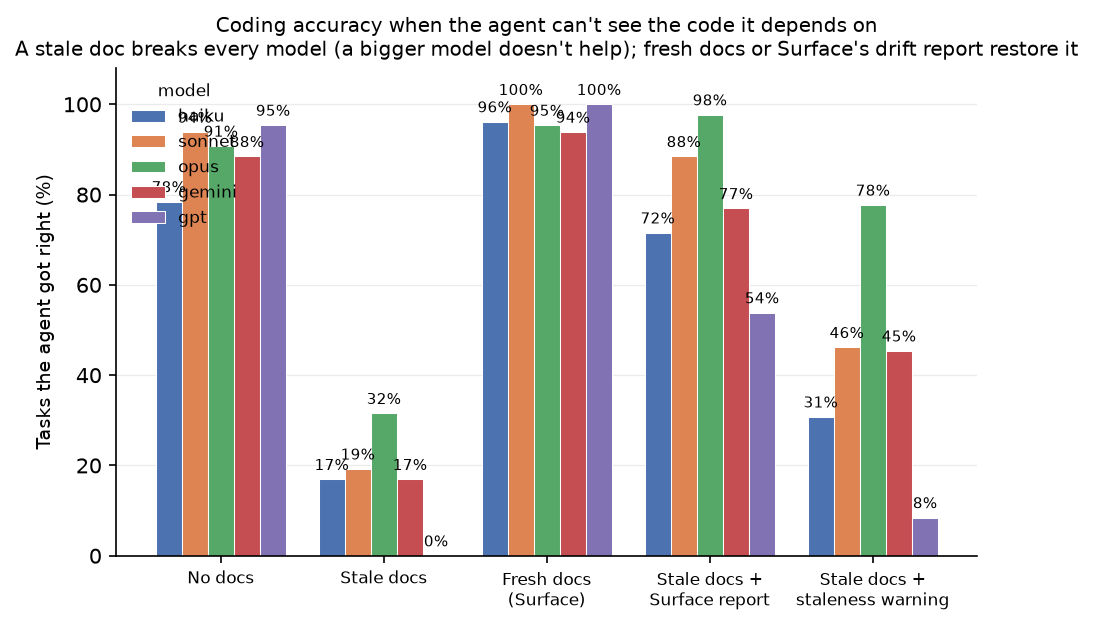
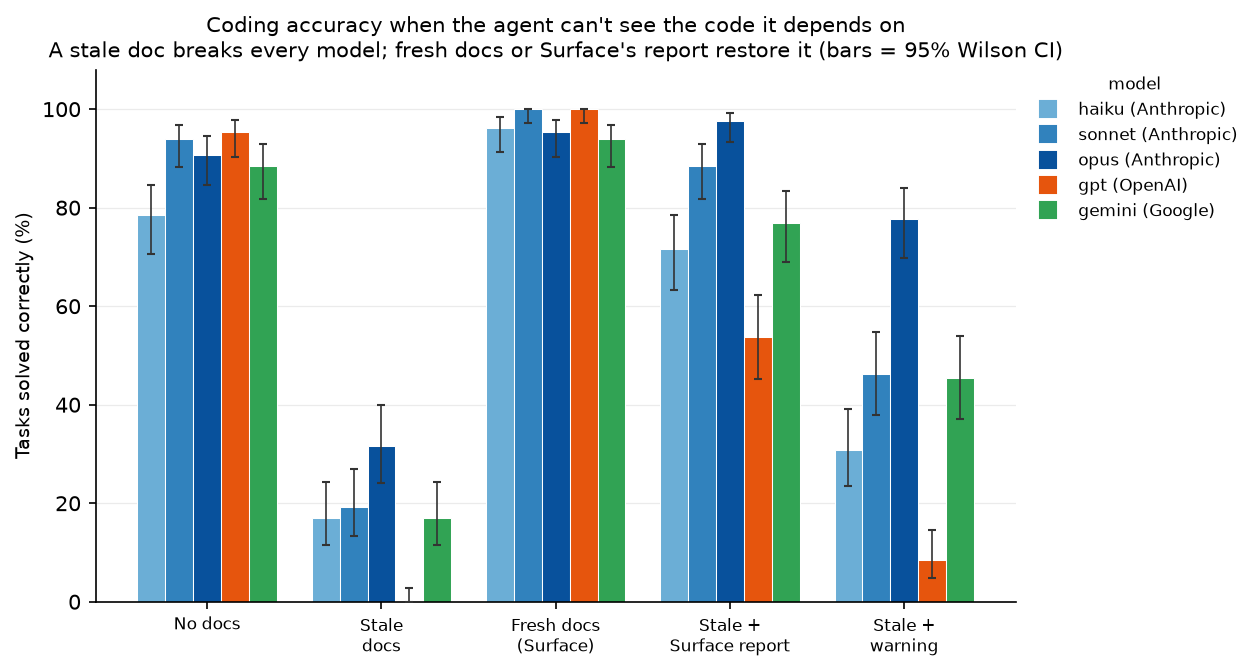
docs: refocus figures on the cost–accuracy story; rewrite §6.7 + add §7.6
Figures (report.py, all rendered from the frozen summary.json):
- replace the effects-forest / mechanisms / mediation charts with a cost–accuracy
  figure (cost_accuracy.png): per-model cost vs success, fresh docs (★) top-left
- keep cascade_success, misled_rate, verification_rate (external legends, CIs)
- drop the stale overview.png

PAPER.md:
- §6.7 rewritten ("Cost and accuracy"): fresh docs strictly dominate no-docs —
  equal/better accuracy at 36–46% lower total cost on 4/5 models — because no-docs
  pays a rediscovery tax (~2x input tokens); embed cost_accuracy.png
- new §7.6 "Why keep docs at all, if no-docs scores well?" (cost dominance,
  reachability caveat, stale-vs-fresh is the real choice, human-comprehension value)
- embed cascade_success / misled_rate / verification_rate; remove forest+mechanisms
- README §4 figure list updated

diff --git a/surface_bench/report.py b/surface_bench/report.py
@@ -202,14 +202,74 @@ def render_markdown(summary: dict) -> str:
     return "\n".join(lines)
 
 
-def maybe_plot(summary: dict, out_dir: Path) -> None:
-    """Render standalone-readable figures.
+# --- Figure styling --------------------------------------------------------------------------
+# Figures are rendered from the summary dict (the same Wilson/bootstrap stats the report tabulates),
+# so they are faithful to the reported numbers. Honesty guards: rate charts use a zero baseline,
+# every rate carries its 95% CI as error bars, no cell is dropped, and the legend sits outside the
+# plot so it never overlaps bars.
+_MODEL_ORDER = ["haiku", "sonnet", "opus", "gpt", "gemini"]
+_PROVIDER = {"haiku": "Anthropic", "sonnet": "Anthropic", "opus": "Anthropic",
+             "gpt": "OpenAI", "gemini": "Google"}
+_COLOR = {"haiku": "#6BAED6", "sonnet": "#3182BD", "opus": "#08519C",
+          "gpt": "#E6550D", "gemini": "#31A354"}
+_COND_ORDER = ["C0", "C1", "C2", "C3", "Cw"]
+_COND_LABEL = {"C0": "No docs", "C1": "Stale\ndocs", "C2": "Fresh docs\n(Surface)",
+               "C3": "Stale +\nSurface report", "Cw": "Stale +\nwarning"}
 
-    The story splits by family, so we plot the families separately rather than averaging them
-    (which would dilute the cascade effect under the comprehension ceiling): cascade scenarios on
-    *success* (where rot breaks the agent) and comprehension scenarios on *output tokens* (where rot
-    just taxes generation). Plain-English condition labels, value annotations, and self-explanatory
-    titles, so the charts make sense without the report. Re-reads raw.jsonl for the per-family split.
+
+def _order_models(summary):
+    present = set(summary["models"])
+    return [m for m in _MODEL_ORDER if m in present] + sorted(present - set(_MODEL_ORDER))
+
+
+def _style(ax):
+    ax.grid(axis="y", alpha=0.25, linewidth=0.6)
+    ax.set_axisbelow(True)
+    for sp in ("top", "right"):
+        ax.spines[sp].set_visible(False)
+
+
+def _legend(ax, models):
+    from matplotlib.lines import Line2D
+
+    handles = [Line2D([0], [0], marker="s", linestyle="", markersize=8, color=_COLOR.get(m, "#888"),
+                      label=f"{m} ({_PROVIDER.get(m, '?')})") for m in models]
+    ax.legend(handles=handles, fontsize=8, frameon=False, title="model", title_fontsize=8,
+              loc="upper left", bbox_to_anchor=(1.01, 1.0), borderaxespad=0)
+
+
+def _grouped_rate(ax, summary, models, field, ci_field, source, ylabel, title):
+    conds = [c for c in _COND_ORDER if c in summary["conditions"]]
+    n = len(models)
+    width = 0.8 / max(n, 1)
+    for i, m in enumerate(models):
+        vals, errs, offs = [], [[], []], []
+        for j, c in enumerate(conds):
+            cell = summary[source][m][c]
+            v = 100 * cell[field]
+            lo, hi = (100 * x for x in cell[ci_field])
+            vals.append(v)
+            errs[0].append(max(0.0, v - lo))
+            errs[1].append(max(0.0, hi - v))
+            offs.append(j + (i - (n - 1) / 2) * width)
+        ax.bar(offs, vals, width=width, color=_COLOR.get(m, "#888"), label=m,
+               edgecolor="white", linewidth=0.5, zorder=2)
+        ax.errorbar(offs, vals, yerr=errs, fmt="none", ecolor="#333", elinewidth=0.8,
+                    capsize=2, zorder=3)
+    ax.set_xticks(range(len(conds)))
+    ax.set_xticklabels([_COND_LABEL.get(c, c) for c in conds], fontsize=8)
+    ax.set_ylim(0, 108)
+    ax.set_ylabel(ylabel, fontsize=9)
+    ax.set_title(title, fontsize=10)
+    _style(ax)
+
+
+def maybe_plot(summary: dict, out_dir: Path) -> None:
+    """Render standalone-readable figures from the summary (no re-reading raw.jsonl).
+
+    Always: cascade success, misled rate, and a pre-registered effects forest. Multi-turn only
+    (guarded on the verification/mediation summary blocks): the verification-rate chart, the
+    three-failure-modes scatter, and the H5 mediation chart.
     """
     try:
         import matplotlib
@@ -218,118 +278,87 @@ def maybe_plot(summary: dict, out_dir: Path) -> None:
         import matplotlib.pyplot as plt
     except ImportError:
         return
-    import statistics
 
-    raw = out_dir / "raw.jsonl"
-    if not raw.exists():
-        return
-    rows = [json.loads(l) for l in raw.read_text().splitlines() if l.strip()]
-    # Order models by capability (small → large) so "a bigger model doesn't help" reads left→right;
-    # unknown names fall back to alphabetical after the known ones.
-    rank = {"haiku": 0, "sonnet": 1, "opus": 2}
-    models = sorted(summary["models"], key=lambda m: (rank.get(m, 99), m))
-    conds = [c for c in ("C0", "C1", "C2", "C3", "Cw") if c in summary["conditions"]]
-    label = {
-        "C0": "No docs",
-        "C1": "Stale docs",
-        "C2": "Fresh docs\n(Surface)",
-        "C3": "Stale docs +\nSurface report",
-        "Cw": "Stale docs +\nstaleness warning",
-    }
-    palette = ["#4C72B0", "#DD8452", "#55A868", "#C44E52", "#8172B3"]
-    color = {m: palette[i % len(palette)] for i, m in enumerate(models)}
-
-    casc = [r for r in rows if r["scenario"].startswith("cascade-")]
-    comp = [r for r in rows if not r["scenario"].startswith("cascade-")]
-
-    def cell(sub, m, c):
-        return [r for r in sub if r["model"] == m and r["condition"] == c]
-
-    def succ_pct(sub, m, c):
-        x = cell(sub, m, c)
-        return 100 * sum(bool(r["ok"]) for r in x) / len(x) if x else 0.0
-
-    def mean_out(sub, m, c):
-        x = [r["output_tokens"] for r in cell(sub, m, c) if r.get("output_tokens") is not None]
-        return statistics.mean(x) if x else 0.0
-
-    def grouped(ax, sub, valfn, ylabel, *, ymax=None, fmt="{:.0f}"):
-        n = len(models)
-        width = 0.8 / max(n, 1)
-        for i, m in enumerate(models):
-            vals = [valfn(sub, m, c) for c in conds]
-            offs = [j + (i - (n - 1) / 2) * width for j in range(len(conds))]
-            ax.bar(offs, vals, width=width, color=color[m], label=m, edgecolor="white", linewidth=0.5)
-            top = ymax or (max(vals) if vals else 1) or 1
-            for off, v in zip(offs, vals):
-                ax.text(off, v + top * 0.012, fmt.format(v), ha="center", va="bottom", fontsize=7)
-        ax.set_xticks(range(len(conds)))
-        ax.set_xticklabels([label.get(c, c) for c in conds], fontsize=8)
-        ax.set_ylabel(ylabel, fontsize=9)
-        if ymax:
-            ax.set_ylim(0, ymax)
-        ax.grid(axis="y", alpha=0.25, linewidth=0.6)
-        ax.set_axisbelow(True)
-        for sp in ("top", "right"):
-            ax.spines[sp].set_visible(False)
-
-    panels = [("casc", casc)] * bool(casc) + [("comp", comp)] * bool(comp)
-    if not panels:
+    models = _order_models(summary)
+    if not models or not summary.get("rates"):
         return
 
-    # Combined overview (one panel per non-empty family).
-    fig, axes = plt.subplots(1, len(panels), figsize=(5.6 * len(panels), 4.3))
-    axes = [axes] if len(panels) == 1 else list(axes)
-    for ax, (kind, sub) in zip(axes, panels):
-        if kind == "casc":
-            grouped(ax, sub, succ_pct, "Tasks the agent got right (%)", ymax=108, fmt="{:.0f}%")
-            ax.set_title(
-                "Code HIDDEN — agent must trust the doc\nStale docs break every model; "
-                "fresh docs & the Surface report fix it",
-                fontsize=9.5,
-            )
-        else:
-            grouped(ax, sub, mean_out, "Avg tokens the agent wrote")
-            ax.set_title(
-                "Code VISIBLE — agent can check it\nRot doesn't cause errors, but costs extra tokens",
-                fontsize=9.5,
-            )
-    axes[0].legend(title="model", fontsize=8, title_fontsize=8, frameon=False, loc="upper left")
-    fig.suptitle("Does stale documentation hurt a coding agent?", fontsize=13, fontweight="bold")
-    fig.tight_layout(rect=(0, 0, 1, 0.97))
-    fig.savefig(out_dir / "overview.png", dpi=150, bbox_inches="tight")
+    # 1. Cascade success (hero).
+    fig, ax = plt.subplots(figsize=(8.5, 4.6))
+    _grouped_rate(ax, summary, models, "success", "success_ci", "rates",
+                  "Tasks solved correctly (%)",
+                  "Coding accuracy when the agent can't see the code it depends on\n"
+                  "A stale doc breaks every model; fresh docs or Surface's report restore it "
+                  "(bars = 95% Wilson CI)")
+    _legend(ax, models)
+    fig.tight_layout()
+    fig.savefig(out_dir / "cascade_success.png", dpi=150, bbox_inches="tight")
     plt.close(fig)
 
-    # Standalone hero: the cascade success chart (the single most quotable figure).
-    if casc:
-        fig, ax = plt.subplots(figsize=(6.6, 4.3))
-        grouped(ax, casc, succ_pct, "Tasks the agent got right (%)", ymax=108, fmt="{:.0f}%")
-        ax.legend(title="model", fontsize=8, title_fontsize=8, frameon=False, loc="upper left")
-        ax.set_title(
-            "Coding accuracy when the agent can't see the code it depends on\n"
-            "A stale doc breaks every model (a bigger model doesn't help); "
-            "fresh docs or Surface's drift report restore it",
-            fontsize=9.5,
-        )
-        fig.tight_layout()
-        fig.savefig(out_dir / "cascade_success.png", dpi=150, bbox_inches="tight")
+    # 2. Misled rate (H2 — rot is worse than nothing).
+    fig, ax = plt.subplots(figsize=(8.5, 4.6))
+    _grouped_rate(ax, summary, models, "misled", "misled_ci", "rates",
+                  "Tasks where the agent asserted the STALE claim (%)",
+                  "Rot is worse than nothing: a stale doc actively misleads\n"
+                  "With no doc the agent is rarely misled; a stale doc misleads the majority "
+                  "(bars = 95% Wilson CI)")
+    _legend(ax, models)
+    fig.tight_layout()
+    fig.savefig(out_dir / "misled_rate.png", dpi=150, bbox_inches="tight")
+    plt.close(fig)
+
+    # 3. Cost vs accuracy — fresh docs are the cost-accuracy optimum (per model; cost from raw $).
+    # Answers "why have docs if no-docs scores well?": no-docs is correct but the priciest way to be,
+    # because the agent pays to rediscover the hidden dependency. C2 sits top-left (best) in each panel.
+    raw_path = out_dir / "raw.jsonl"
+    if raw_path.exists():
+        import statistics
+
+        rows = [json.loads(l) for l in raw_path.read_text().splitlines() if l.strip()]
+        conds = [c for c in _COND_ORDER if c in summary["conditions"]]
+        ccolor = {"C0": "#7F7F7F", "C1": "#C44E52", "C2": "#2CA02C", "C3": "#3182BD", "Cw": "#E6845E"}
+        clabel = {"C0": "no docs", "C1": "stale", "C2": "fresh", "C3": "+report", "Cw": "+warning"}
+        n = len(models)
+        fig, axes = plt.subplots(1, n, figsize=(3.05 * n, 3.6), squeeze=False)
+        for ax, m in zip(axes[0], models):
+            for c in conds:
+                cells = [r for r in rows if r["model"] == m and r["condition"] == c]
+                if not cells:
+                    continue
+                cost = 1000 * statistics.mean(r["cost_usd"] for r in cells)  # $ per 1,000 tasks
+                succ = 100 * summary["rates"][m][c]["success"]
+                hi = c == "C2"
+                ax.scatter([cost], [succ], s=170 if hi else 70, color=ccolor.get(c, "#888"),
+                           marker="*" if hi else "o", edgecolor="black" if hi else "white",
+                           linewidth=1.2 if hi else 0.6, zorder=3)
+                ax.annotate(clabel.get(c, c), (cost, succ), textcoords="offset points",
+                            xytext=(6, 4), fontsize=7.5, fontweight="bold" if hi else "normal")
+            ax.set_title(f"{m} ({_PROVIDER.get(m, '?')})", fontsize=9)
+            ax.set_xlabel("Cost per 1,000 tasks ($)", fontsize=8)
+            ax.set_ylim(-6, 108)
+            ax.margins(x=0.25)
+            _style(ax)
+        axes[0][0].set_ylabel("Tasks solved correctly (%)", fontsize=9)
+        fig.suptitle("Fresh docs (★) are the cost–accuracy optimum: most accurate AND cheapest\n"
+                     "No-docs is correct but pricier — the agent pays to rediscover the hidden "
+                     "dependency (top-left = ideal)", fontsize=11, fontweight="bold")
+        fig.tight_layout(rect=(0, 0, 1, 0.9))
+        fig.savefig(out_dir / "cost_accuracy.png", dpi=150, bbox_inches="tight")
         plt.close(fig)
 
-    # Verification hero (multi-turn only): does a confident stale doc stop the agent checking?
-    if casc and any("verified_hidden" in r for r in rows):
+    # Multi-turn figures (only when verification was measured).
+    ver = summary.get("verification") or {}
+    has_ver = bool(ver) and all("C1" in ver.get(m, {}) for m in models)
 
-        def ver_pct(sub, m, c):
-            x = [r for r in cell(sub, m, c) if "verified_hidden" in r]
-            return 100 * sum(bool(r["verified_hidden"]) for r in x) / len(x) if x else 0.0
-
-        fig, ax = plt.subplots(figsize=(6.6, 4.3))
-        grouped(ax, casc, ver_pct, "Agent read the hidden dependency (%)", ymax=108, fmt="{:.0f}%")
-        ax.legend(title="model", fontsize=8, title_fontsize=8, frameon=False, loc="upper right")
-        ax.set_title(
-            "Does a confident (stale) doc stop the agent verifying?\n"
-            "With no doc the agent reads the hidden code; a stale doc suppresses the check",
-            fontsize=9.5,
-        )
+    if has_ver:
+        # 4. Verification rate (H4 hero).
+        fig, ax = plt.subplots(figsize=(8.5, 4.6))
+        _grouped_rate(ax, summary, models, "verification_rate", "verification_ci", "verification",
+                      "Agent read the hidden dependency (%)",
+                      "Does a confident (stale) doc stop the agent verifying?\n"
+                      "With no doc every model checks the hidden code; a stale doc suppresses it "
+                      "(bars = 95% Wilson CI)")
+        _legend(ax, models)
         fig.tight_layout()
         fig.savefig(out_dir / "verification_rate.png", dpi=150, bbox_inches="tight")
         plt.close(fig)

diff --git a/PAPER.md b/PAPER.md
@@ -468,6 +468,10 @@ every model — **including opus and gpt**, the most capable systems tested. Fre
 94–100%. The pattern of the single-shot pilot survives intact in the agentic setting, where the agent
 could have verified.
 
+![Cascade success by condition and model, with 95% Wilson CIs: stale docs (C1) collapse accuracy on every model; fresh docs (C2) and the Surface report (C3) restore it.](results/confirmatory-20260616T172420Z/cascade_success.png)
+
+![Misled rate by condition and model, with 95% Wilson CIs: with no doc the agent is rarely misled, but a stale doc misleads the majority on every model.](results/confirmatory-20260616T172420Z/misled_rate.png)
+
 ### 6.3 Verification rate — per model × condition (cascade, multi only)
 
 Fraction of trials that read the hidden dependency before answering [95% Wilson]; `v→ok` = success
@@ -480,6 +484,8 @@ among C1 verifiers (H5's validity check).
 | opus   | 100% [97–100] | 33% [26–42] | 38% | 29% | 87% | 95% |
 | gpt    | 96% [91–98]   | **0% [0–3]**  | 2%  | 23% | 9%  | n/a (no verifiers) |
 | gemini | 100% [97–100] | **85% [77–90]** | 74% | 100% | 100% | 20% |
+
+![Verification rate by condition and model, with 95% Wilson CIs: with no doc every model reads the hidden dependency ~100% of the time; a stale doc (C1) suppresses that check sharply for gpt and the Claude models, only mildly for gemini.](results/confirmatory-20260616T172420Z/verification_rate.png)
 
 **H4 (verification suppression, C0 − C1) is significant on every model** but spans an order of
 magnitude: gpt **+96 pp** [+92, +99], sonnet +80 pp [+73, +86], haiku +77 pp [+69, +84], opus
@@ -557,23 +563,41 @@ the marginal value of *accurate prose over no doc* (C2 − C0) is small but posi
 (+5 to +18 pp), Holm-significant for gpt/haiku/sonnet and not for gemini/opus — i.e. most of Surface's
 value is in *removing rot*, not in adding prose a capable agent could derive itself.
 
-### 6.7 Token cost (exploratory)
+### 6.7 Cost and accuracy — fresh docs are the cheapest *and* most accurate (exploratory)
 
-Output-token deltas (mean, 95% bootstrap CI):
+Success rate alone makes no-docs (C0) and fresh-docs (C2) look like comparable options — both are
+mostly correct. **Total cost per task tells a different story: C2 strictly dominates C0** — equal or
+better accuracy at lower cost on four of five models (≈ tied on gemini). Per 1,000 tasks (total spend,
+including input tokens, at the prices in `run.json`):
 
-| Model | C1 − C2 (stale vs fresh) | C1 − C0 (stale vs none) | C1 − C3 (stale vs +report) |
+| Model | No docs (C0) | Fresh docs (C2) | C2 vs C0 |
 |---|---|---|---|
-| haiku  | +33 [−22, +90] | **−162** [−218, −103] | **−175** [−230, −118] |
-| sonnet | **+47** [+11, +85] | **−52** [−90, −12] | −17 [−63, +28] |
-| opus   | +48 [−29, +125] | **−200** [−269, −127] | **−174** [−266, −81] |
-| gpt    | −3 [−20, +14] | **−98** [−116, −79] | −18 [−36, +0] |
-| gemini | **+86** [+42, +131] | +29 [−21, +81] | **−51** [−101, −1] |
+| haiku  | 78% · $11.0 | **96% · $6.1** | +18 pp, **−45% cost** |
+| sonnet | 94% · $27.8 | **100% · $16.8** | +6 pp, **−40% cost** |
+| opus   | 91% · $59.3 | **95% · $31.8** | +4 pp, **−46% cost** |
+| gpt    | 95% · $11.8 | **100% · $7.6** | +5 pp, **−36% cost** |
+| gemini | 88% · $11.3 | 94% · $11.8 | +6 pp, ≈ flat |
 
-The pilot's "rot you can't see makes you *cheaply* wrong" pattern recurs: on four of five models C1
-spends *fewer* output tokens than C0 (the stale doc lets the model commit immediately instead of
-deliberating about the unseen dependency), and recovery (C3) is dearer than the error (C1). Gemini is
-the lone exception (C1 − C0 ≈ 0): consistent with §6.3, it keeps verifying under the stale doc rather
-than committing cheaply — it simply ignores what it finds.
+![Cost vs accuracy per model. Fresh docs (★) sit top-left — most accurate and (on 4/5 models) cheapest. No-docs is correct but pushed right (pricier); stale/warning fall low. Cost is total $ per 1,000 tasks; top-left is ideal.](results/confirmatory-20260616T172420Z/cost_accuracy.png)
+
+**Why no-docs costs more.** With no doc, the agent pays a *rediscovery tax*: it opens the hidden
+dependency in ~100% of trials (§6.3), which roughly **doubles input tokens** (e.g. haiku 7,170 → 3,299;
+opus 7,803 → 3,562) as the file and the growing transcript re-enter context turn after turn. A fresh
+doc simply *states* the fact, so the agent skips the read-and-verify loop. The fresh doc's own input
+cost is small change against the reads it avoids. (Gemini is the exception — it reads the dependency
+regardless, so the doc is near-pure added input cost there, yet still buys +6 pp accuracy.)
+
+So the practical takeaway answers the obvious "why bother with docs if no-docs works?": **no-docs is the
+most expensive way to be correct**, and only as accurate as it is *because the hidden code happened to
+be reachable* (in §5's single-shot setting, where it is not, no-docs collapses with the rest). The
+realistic choice is never "no docs vs fresh docs" but **stale docs vs fresh docs** — and that is the
+contrast Surface governs.
+
+For completeness, the behavioural output-token signal (mean, 95% bootstrap CI): on four of five models
+C1 spends *fewer* output tokens than C0 (a stale doc lets the model commit immediately instead of
+deliberating about the unseen dependency), e.g. C1 − C0 = −162 [−218, −103] (haiku), −200 [−269, −127]
+(opus), −98 [−116, −79] (gpt); gemini is again the exception (+29 [−21, +81]) because it keeps
+verifying under the stale doc and merely ignores what it finds.
 
 ---
 
@@ -664,6 +688,35 @@ token line. **The ROI is dominated by avoided wrong work, not token savings**, a
 often agents act on documentation they cannot independently verify. *Measured here:* the 100%/≈0%
 failure rates and the token deltas. *Supplied by the reader:* task volume, exposure share, and
 remediation cost.
+
+### 7.6 "Why keep docs at all, if no-docs scores well?"
+
+A fair reading of §6.2 is that no-docs (C0) already scores 78–95% — so why pay for documentation, let
+alone a tool to keep it fresh? Three things resolve the apparent paradox.
+
+**No-docs is the most expensive way to be correct.** §6.7 shows fresh docs *dominate* no-docs:
+equal-or-better accuracy at **36–46% lower total cost** on four of five models. Stripped of a doc, the
+agent rediscovers the hidden dependency itself — verifying ~100% of the time and roughly doubling input
+tokens. Judging C0 and C2 by success rate alone hides that C2 gets there cheaper; on a cost–accuracy
+plot C2 is Pareto-dominant and C0 is simply inside the frontier.
+
+**No-docs only looks safe because the code was reachable.** Our multi-turn sandbox *contains* the
+hidden dependency, so a diligent agent can open it. Real large codebases routinely fail that
+assumption — the implementing file is behind an interface, in another service, or outside the context
+budget. That is exactly the §5 single-shot regime, where no-docs collapses to the floor along with
+stale docs. C0's strong showing here is an upper bound that production rarely affords.
+
+**The real-world choice is stale vs fresh, not none vs fresh.** Teams do not operate doc-free; they
+operate with docs that *drift*. The operative comparison is therefore C1 (catastrophic: 68–100% misled)
+against C2 — and closing that gap is precisely what a drift gate does.
+
+**And documentation is not only for the agent.** This benchmark scores a model, but docs are read by
+people — for onboarding, code review, design rationale, and incident response — value that no-docs
+forfeits entirely and that stale docs actively corrupt. Keeping docs accurate is thus doubly justified:
+it is the cost-accuracy optimum for the agent *and* the substrate humans rely on to understand the
+system. The contribution of a tool like Surface is to make "fresh" the steady state rather than a
+brief condition right after someone last hand-checked the prose — so both readers, human and machine,
+can trust it.
 
 ---
 

diff --git a/README.md b/README.md
@@ -187,8 +187,10 @@ cross-check. The report also slices deltas **by tier** (the difficulty gradient)
 
 **`report.md` sections:** Spend · the gradient (C2−C1 by tier) · **Verification** (multi: the H4
 deltas + H5 mediation) · per-model rate tables + deltas (with Holm flags) · output-token tables +
-deltas · per-scenario success. **Figures:** `overview.png`, `cascade_success.png`, and (multi)
-`verification_rate.png` — the "does a stale doc stop the agent checking?" hero chart.
+deltas · per-scenario success. **Figures** (all from the frozen `summary.json`, with 95% Wilson CIs):
+`cascade_success.png`, `misled_rate.png`, `cost_accuracy.png` (the cost–accuracy frontier — fresh docs
+are cheapest *and* most accurate), and (multi) `verification_rate.png` — the "does a stale doc stop the
+agent checking?" hero chart.
 
 ---
 